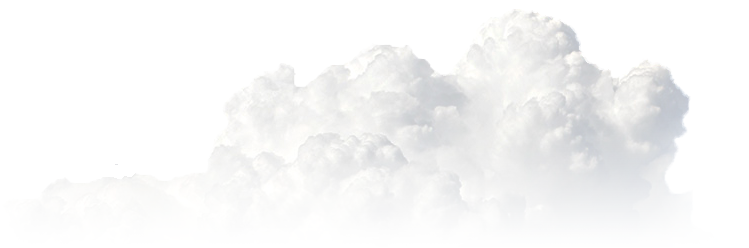
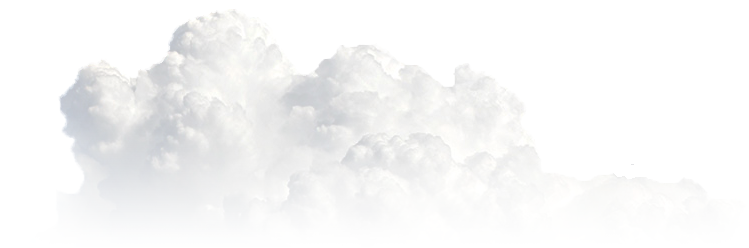
clouds animation

diff --git a/style.css b/style.css
@@ -52,6 +52,11 @@ button {
   color: white;
   font-size: 1.8rem;
   cursor: pointer;
+  transition: background 0.2s ease-in-out;
+}
+
+button:hover {
+  background-color: #27394e;
 }
 
 /* ---------- Nav Section with HERO ---------- */
@@ -86,8 +91,8 @@ nav ul {
 }
 
 .hero {
-  background: linear-gradient(rgba(0, 0, 0, 0.3), transparent),
-    url('/img/landing-page.jpg');
+  background: linear-gradient(rgba(0, 0, 0, 0.2), transparent),
+    url('./img/landing-page.jpg');
   min-height: 90vh;
   background-repeat: no-repeat;
   background-size: cover;
@@ -109,16 +114,19 @@ nav ul {
 #locations {
   min-height: 100vh;
   background-image: linear-gradient(rgba(0, 0, 0, 0.5), transparent),
-    url(./img/city.jpg);
+    url('./img/city.jpg');
   background-size: cover;
   background-position: center;
   display: flex;
   align-items: center;
+  position: relative;
+  overflow: hidden;
 }
 
 .locations-head {
   width: 90%;
   margin: auto;
+  margin-top: 15rem;
 }
 
 .locations-head h2 {
@@ -127,6 +135,34 @@ nav ul {
 
 .locations-head h3 {
   padding: 4rem 0rem;
+}
+
+.cloud {
+  position: absolute;
+}
+
+.moving-cloud-1 {
+  top: 3%;
+  right: -5%;
+  opacity: 0.3;
+  animation: cloudAnimation 5s infinite alternate ease-in-out;
+}
+
+.moving-cloud-2 {
+  top: 15%;
+  right: -10%;
+  z-index: 1;
+  opacity: 0.2;
+  animation: cloudAnimation 3s infinite alternate ease-in-out;
+}
+
+@keyframes cloudAnimation {
+  from {
+    transform: translate(10%, 5%);
+  }
+  to {
+    transform: translate(0%, 0%);
+  }
 }
 
 /* ---------- Media Queries ---------- */

diff --git a/index.html b/index.html
@@ -32,7 +32,7 @@
     <section class="hero">
       <h2>Travel Beyond Limits</h2>
       <h3>
-        Start your travel at an affordabel price with Travelly <br />
+        Start your travel at an affordable price with Travelly <br />
         Contact us now bellow.
       </h3>
       <button>Book Now</button>
@@ -46,7 +46,7 @@
           flight and travellig destination.
         </h3>
         <img src="./img/cloud.png" class="moving-cloud-1 cloud" />
-        <img src="./img/cloud.png" class="moving-cloud-2 cloud" />
+        <img src="./img/cloud-2.png" class="moving-cloud-2 cloud" />
       </header>
     </section>
   </body>
